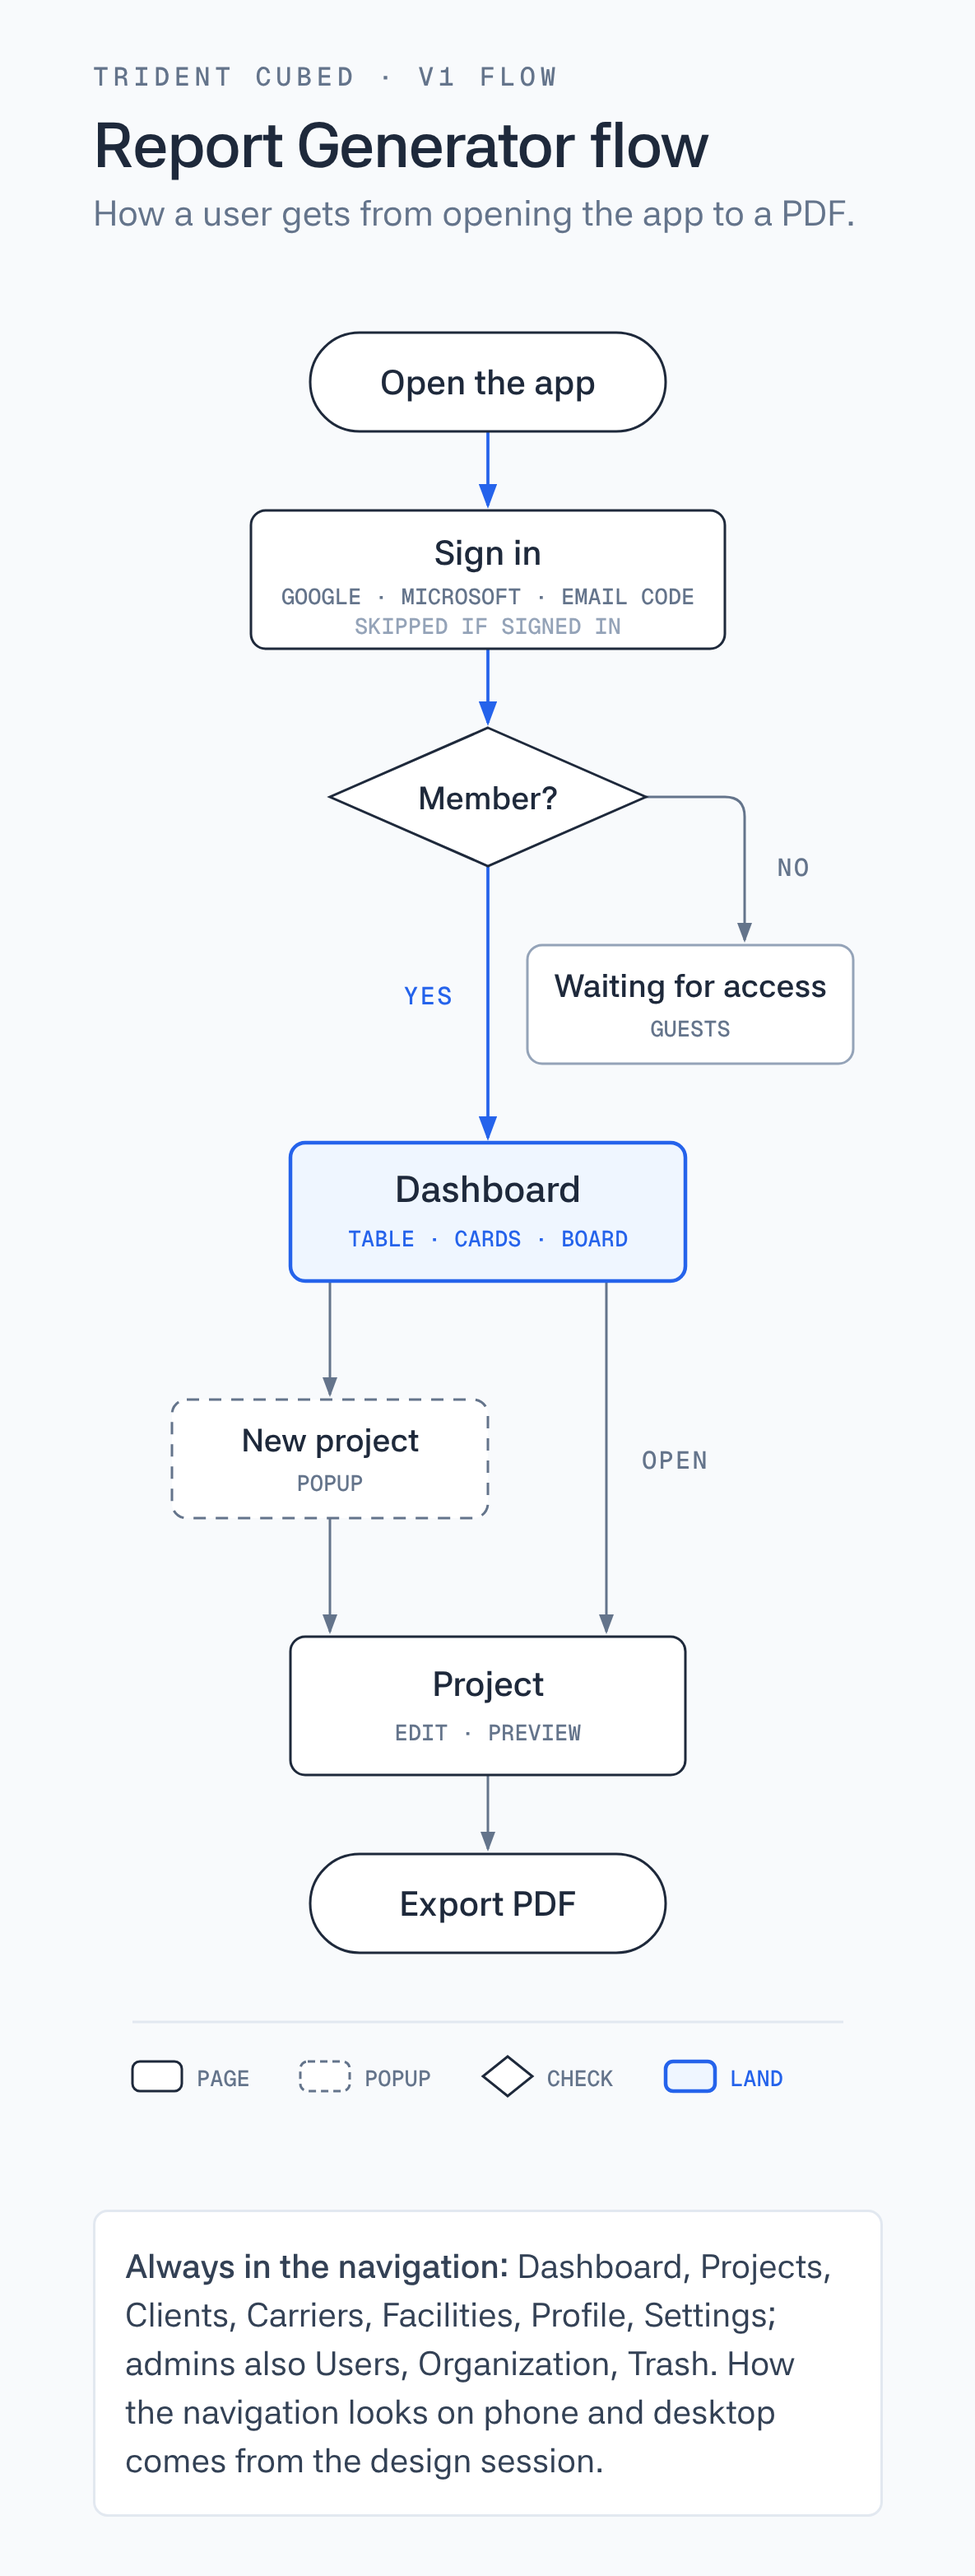
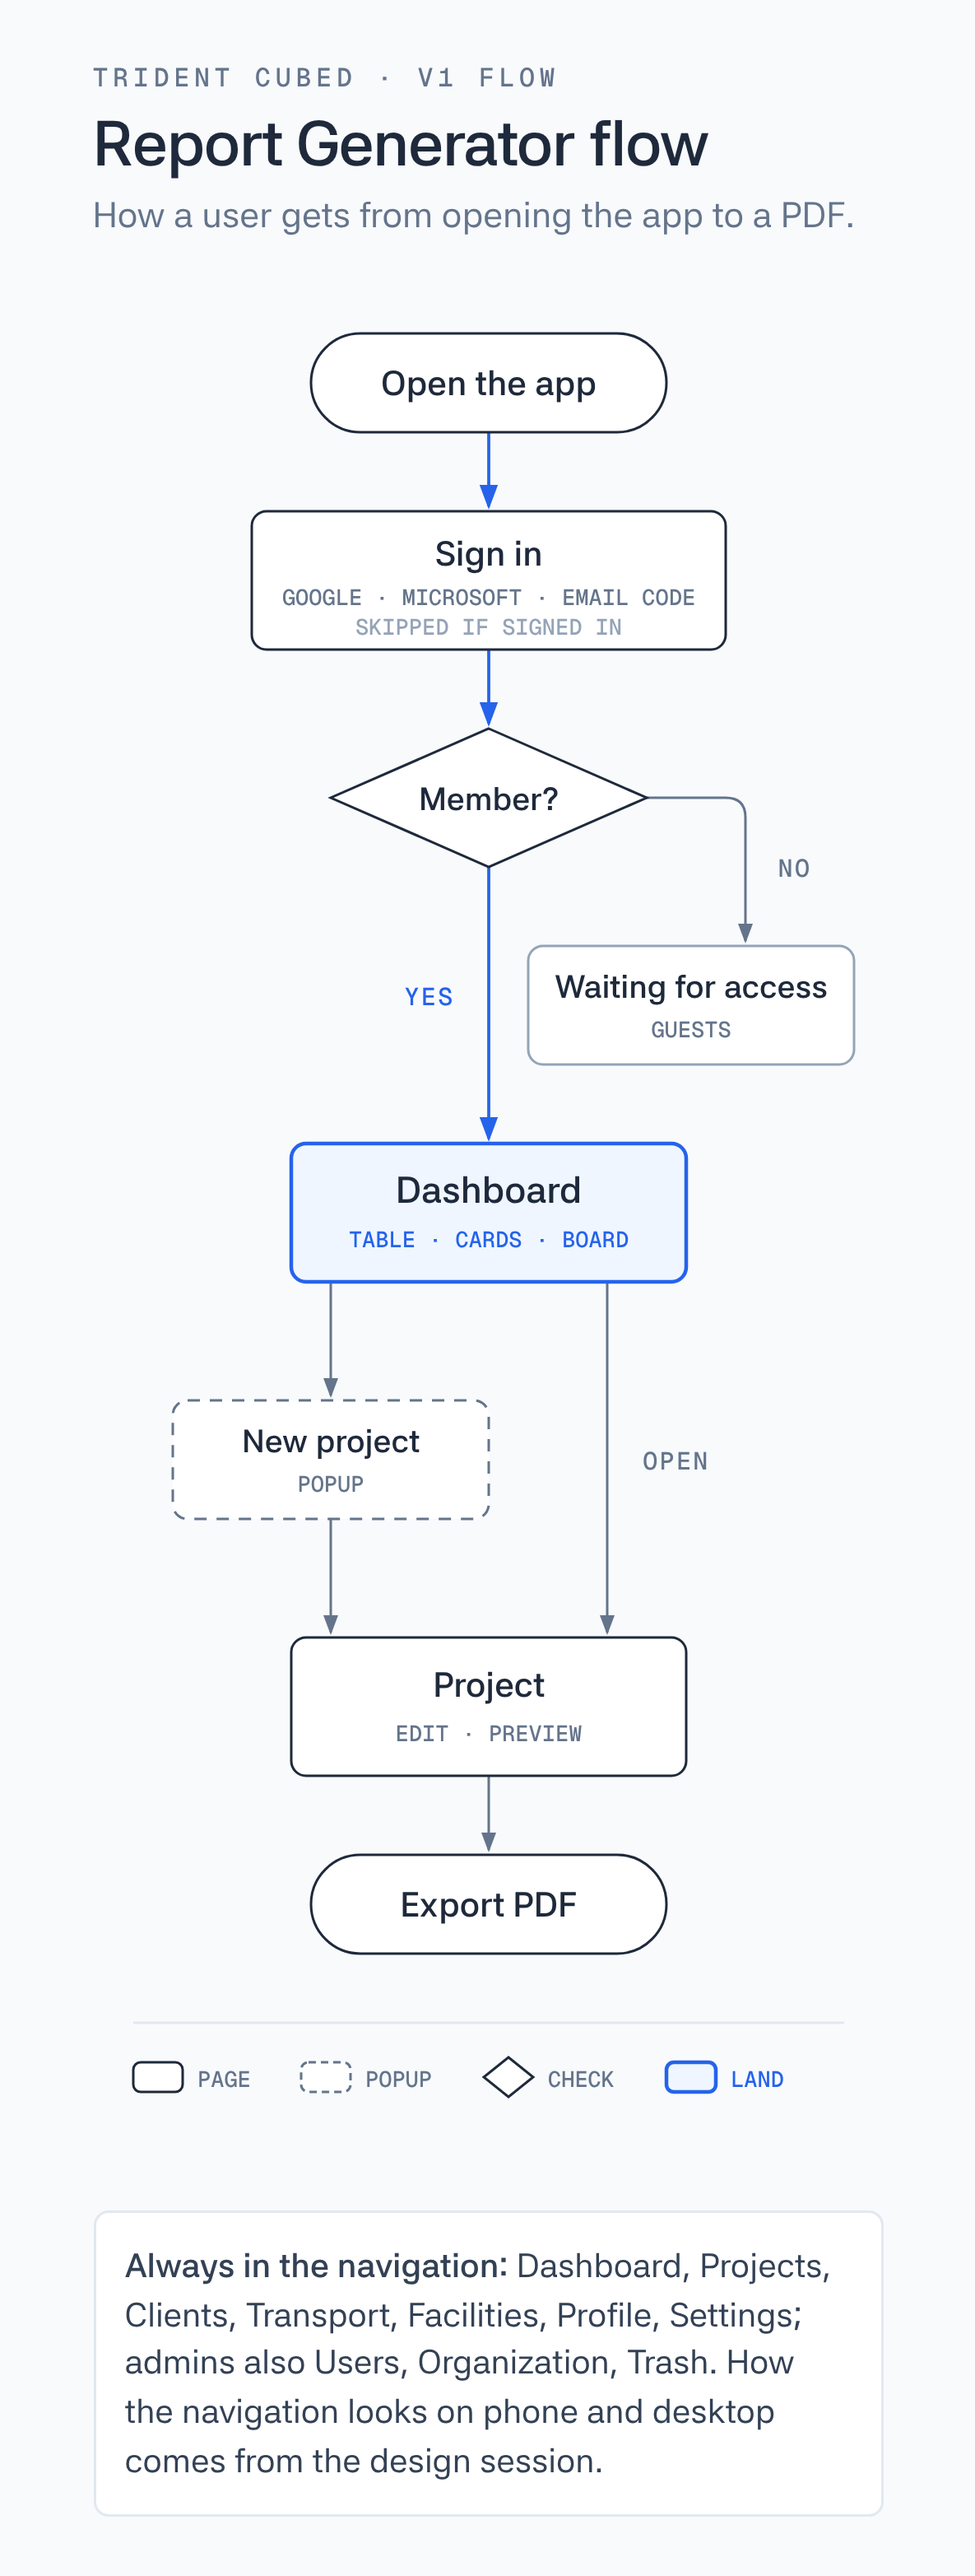
📝 docs(app): rename Carrier to Transport in the glossary and pages
Transport is the ship, barge, plane, train or truck; Transport type is Sea,
Air, Rail or Road; Transport mode is Vessel, Barge and the rest (Justin,
2026-10-25). Carrier stays as the owning company, not in V1.

Claude-Session: https://claude.ai/code/session_01S38E1BjiYbzEhKNqUub12w

diff --git a/docs/trident/pages-flow.html b/docs/trident/pages-flow.html
@@ -87,5 +87,5 @@ svg{width:100%;min-width:320px;display:block}
 <rect x="232" y="724" width="20" height="12" rx="3" fill="#eff6ff" stroke="#2563eb" stroke-width="1.5"/>
 <text x="258" y="734" font-family="'Geist Mono', ui-monospace, monospace" font-size="9" fill="#2563eb">LAND</text>
 </svg></div>
-<p class="note"><b>Always in the navigation:</b> Dashboard, Projects, Clients, Carriers, Facilities, Profile, Settings; admins also Users, Organization, Trash. How the navigation looks on phone and desktop comes from the design session.</p>
+<p class="note"><b>Always in the navigation:</b> Dashboard, Projects, Clients, Transport, Facilities, Profile, Settings; admins also Users, Organization, Trash. How the navigation looks on phone and desktop comes from the design session.</p>
 </div></body></html>

diff --git a/docs/trident/GLOSSARY.md b/docs/trident/GLOSSARY.md
@@ -77,7 +77,7 @@ A project's reference: the client's short code, the day the project was created 
 _Avoid_: job number, reference, queue number
 
 **Document ID**:
-The report's identifier and the name of its exported file: the project number, FR for final report, the report number and the revision number, SGL-2026-02-03-01-FR-01-01. The file name may end with the carrier's name after a triple dash, SGL-2026-02-03-01-FR-01-01---BBC-Kimberly.pdf.
+The report's identifier and the name of its exported file: the project number, FR for final report, the report number and the revision number, SGL-2026-02-03-01-FR-01-01. The file name may end with the transport's name after a triple dash, SGL-2026-02-03-01-FR-01-01---BBC-Kimberly.pdf.
 _Avoid_: file name, job number
 
 **Report number**:
@@ -108,10 +108,22 @@ The document a project produces: its panels rendered as report pages.
 _Avoid_: survey report, document
 
 **Facility**:
-The port or port terminal where the project takes place, picked from the organization's list.
+Where the project takes place: a port, airport, rail yard or depot, picked from the organization's list or added on the spot. The drop-down offers the facilities that match the project's transport types.
+
+**Transport**:
+The ship, barge, plane, train or truck that moves the items, like MV Coral Dawn, picked from the organization's Transport list or added on the spot. A project can use several, one after another, each in its own row of the Transport section. In V1 every transport is typed in by hand; later a tracking service adds ships and planes to the same list.
+_Avoid_: carrier (that is the owner), vehicle, conveyance
+
+**Transport type**:
+Sea, Air, Rail or Road. Picking one offers its transport modes.
+_Avoid_: transport mode (that is Vessel, Barge and the rest)
+
+**Transport mode**:
+What a transport is within its type: Vessel or Barge for Sea, Plane for Air, Train or Railcar for Rail, Truck or Trailer for Road. Each mode has its own icon.
+_Avoid_: kind, transport type (that is Sea, Air, Rail or Road)
 
 **Carrier**:
-What carries the items: a vessel, an airplane, a train or a truck, picked from the organization's list.
+The company that owns a transport, like a shipping line; never the ship itself. Not in V1.
 
 **Items**:
 The cargo the project concerns.
@@ -135,7 +147,7 @@ A box in the editor. The project details panel holds the job's facts; every othe
 _Avoid_: section, report section, page
 
 **Project details panel**:
-The panel of the job's facts: client, facility, carrier and team picked from lists, plus title, dates and cargo summary. Its values fill the cover, the page headers and the introduction.
+The panel of the job's facts: client, facility, transport and team picked from lists, plus title, dates and cargo summary. Its values fill the cover, the page headers and the introduction.
 _Avoid_: project panel, info panel
 
 **Fixed panel**:

diff --git a/docs/trident/pages.md b/docs/trident/pages.md
@@ -23,8 +23,8 @@ The pages (routes) of the Report Generator: the end goal, and the part that ship
       - Sent copies
   - Clients ✅ (list only)
     - Client
-  - Carriers ✅ (list only, filtered by vessel, airplane, train, truck)
-    - Carrier
+  - Transport ✅ (list only, filtered by Sea, Air, Rail, Road)
+    - Transport
   - Facilities ✅ (list only)
     - Facility
   - Notifications
@@ -55,12 +55,12 @@ The pages (routes) of the Report Generator: the end goal, and the part that ship
 2. A Member or Admin lands on the Dashboard; a Guest lands on Waiting for access.
 3. From the Dashboard a User opens a project, or makes one with New project, a popup (title and client; whoever makes it is the Owner).
 4. A project opens on its Workspace, Edit and Preview; Preview exports the PDF.
-5. The navigation always reaches Dashboard, Projects, Clients, Carriers, Facilities, Profile and Settings; admins also reach Users, Organization and Trash.
+5. The navigation always reaches Dashboard, Projects, Clients, Transport, Facilities, Profile and Settings; admins also reach Users, Organization and Trash.
 
 ## Rules
 
-- **One list, three views.** Dashboard, Projects, Clients, Carriers, Facilities, Users and Trash are the same list component with different data. Table, Cards and Board (a column per project status) are all V1, and the User picks the view.
-- **Clients, Carriers and Facilities get their own list pages** on top of being picked and added from dropdowns in the Project details panel (ADR 0005). A single Client, Carrier or Facility page comes later.
+- **One list, three views.** Dashboard, Projects, Clients, Transport, Facilities, Users and Trash are the same list component with different data. Table, Cards and Board (a column per project status) are all V1, and the User picks the view.
+- **Clients, Transport and Facilities get their own list pages** on top of being picked and added from dropdowns in the Project details panel (ADR 0005). A single Client, Transport or Facility page comes later.
 - **New project is a popup,** not a page.
 - **No Welcome walkthrough in V1.** The phone asks for the camera, location or microphone the first time a feature needs it. A walkthrough at first sign-in stays on the list for later.
 - **No Offline page.** Once signed in the app runs from the device (ADR 0007); opening it for the first time with no signal shows a message on Sign in.
